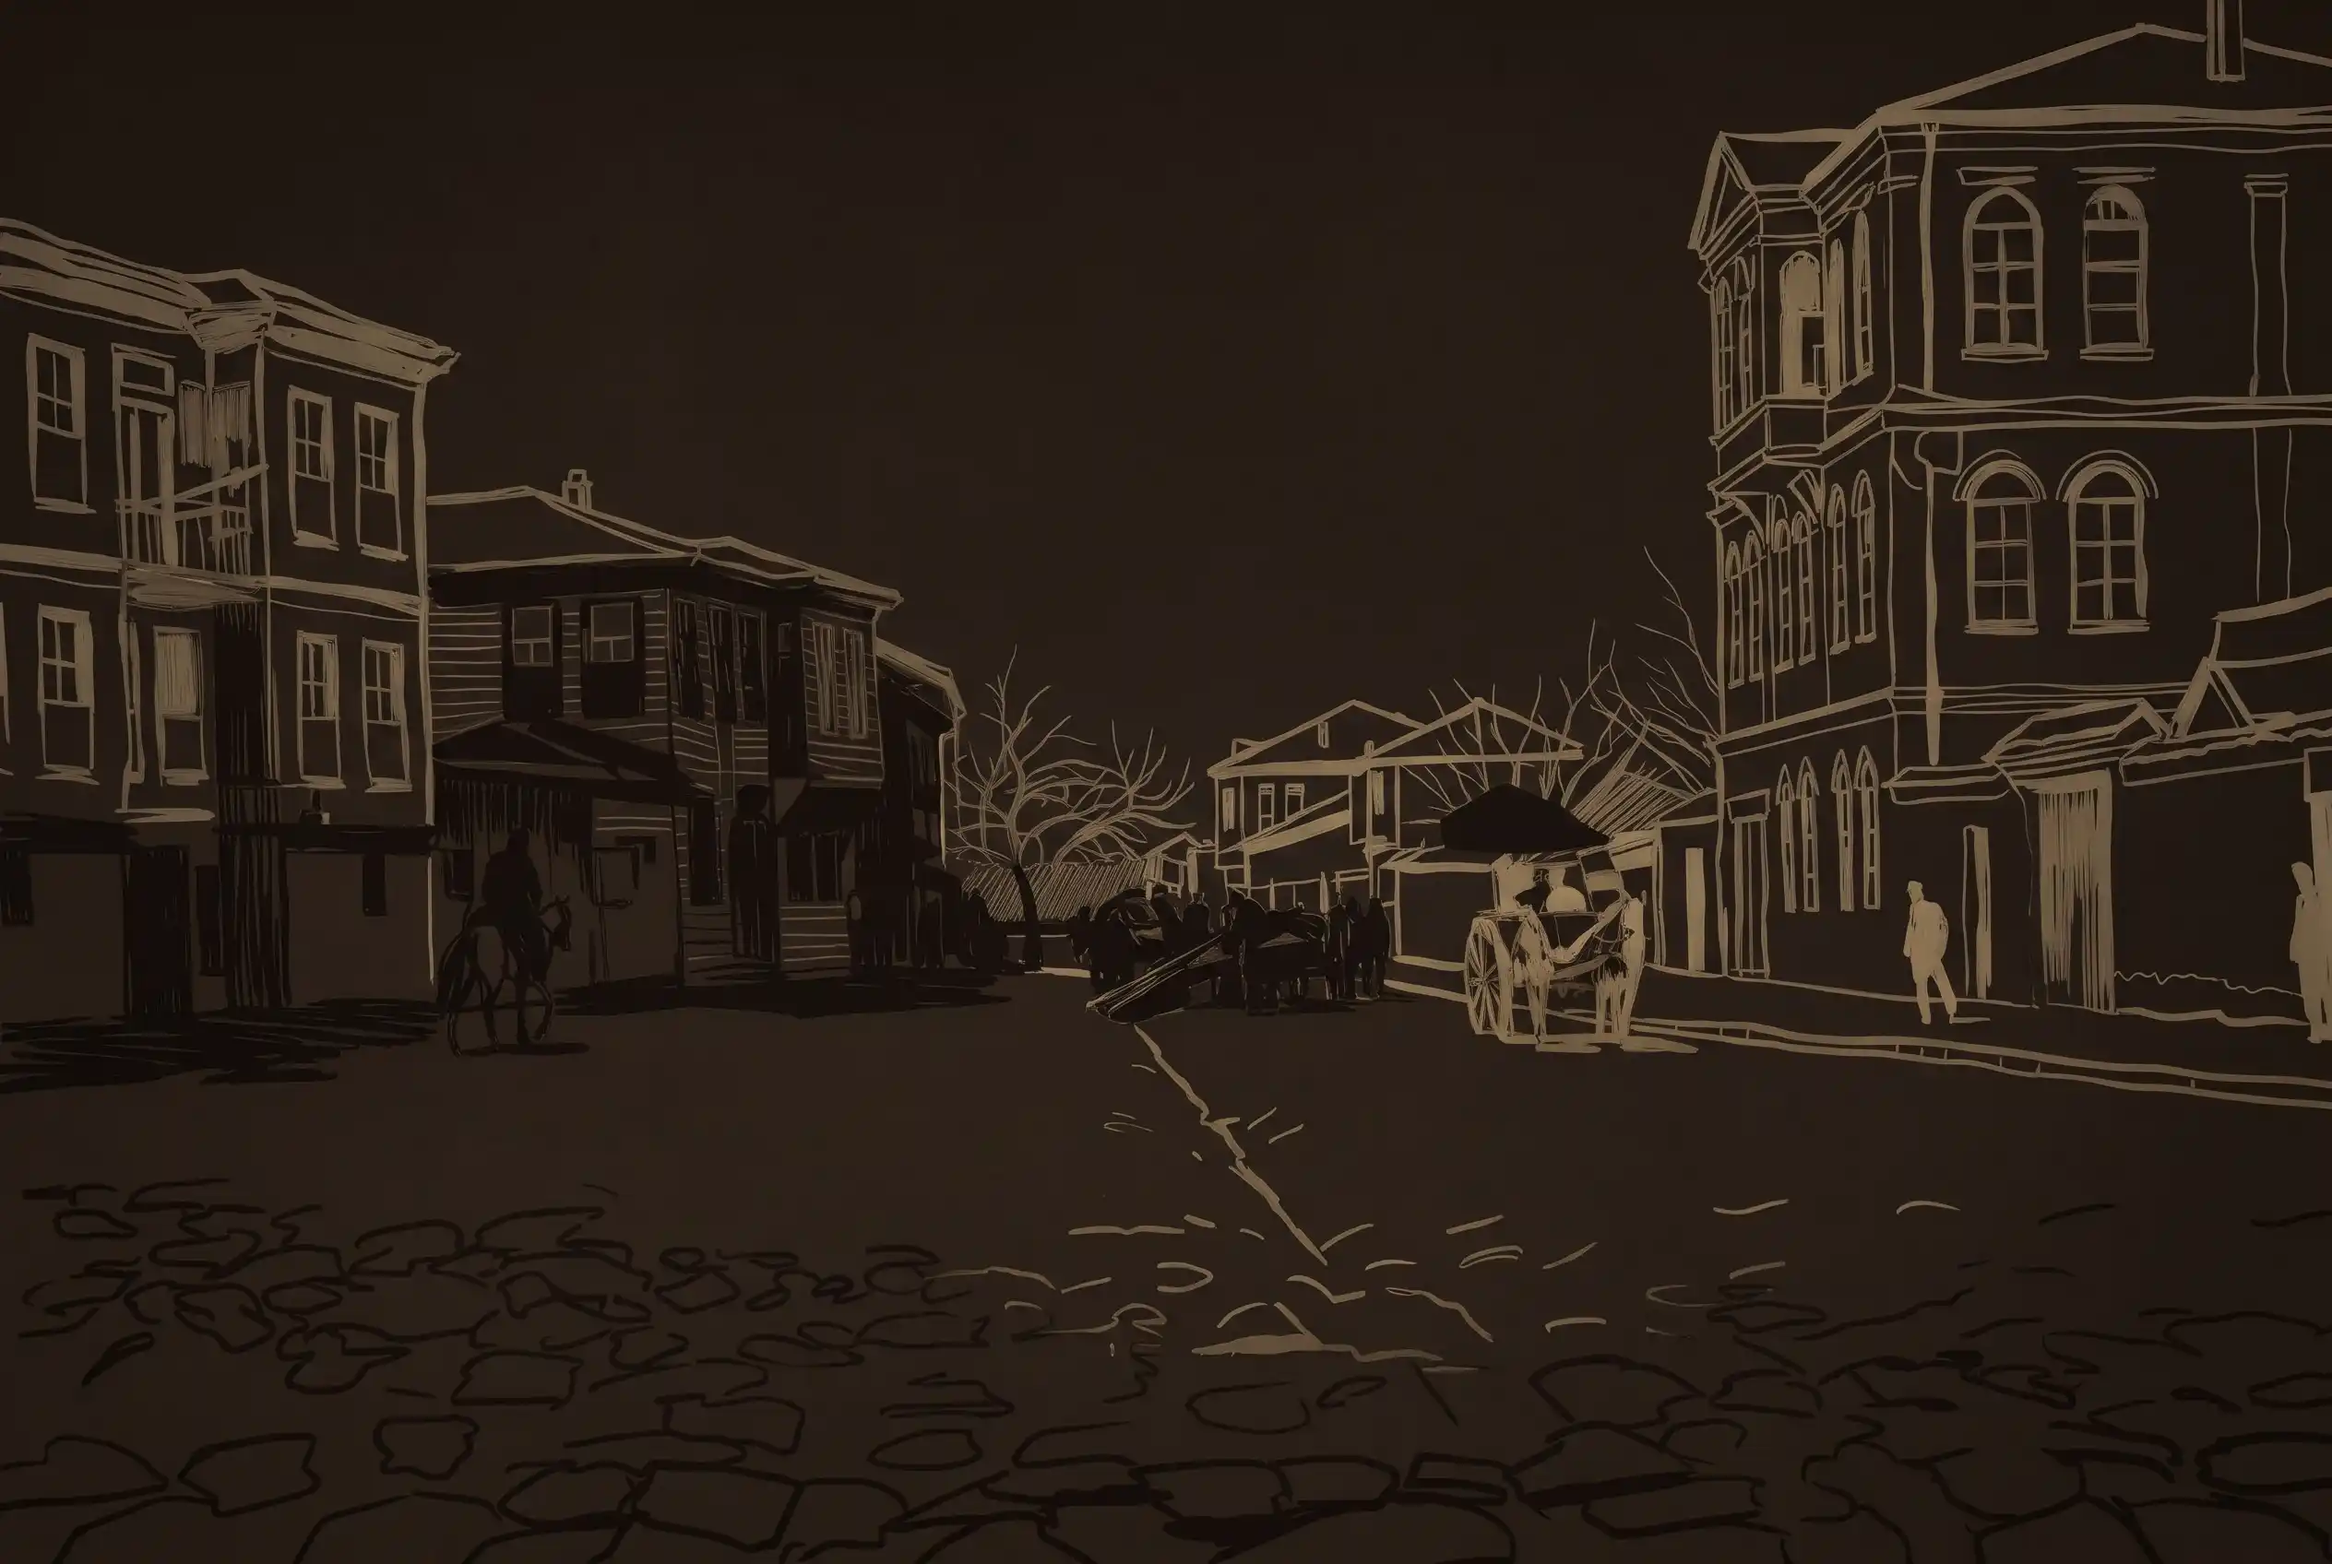
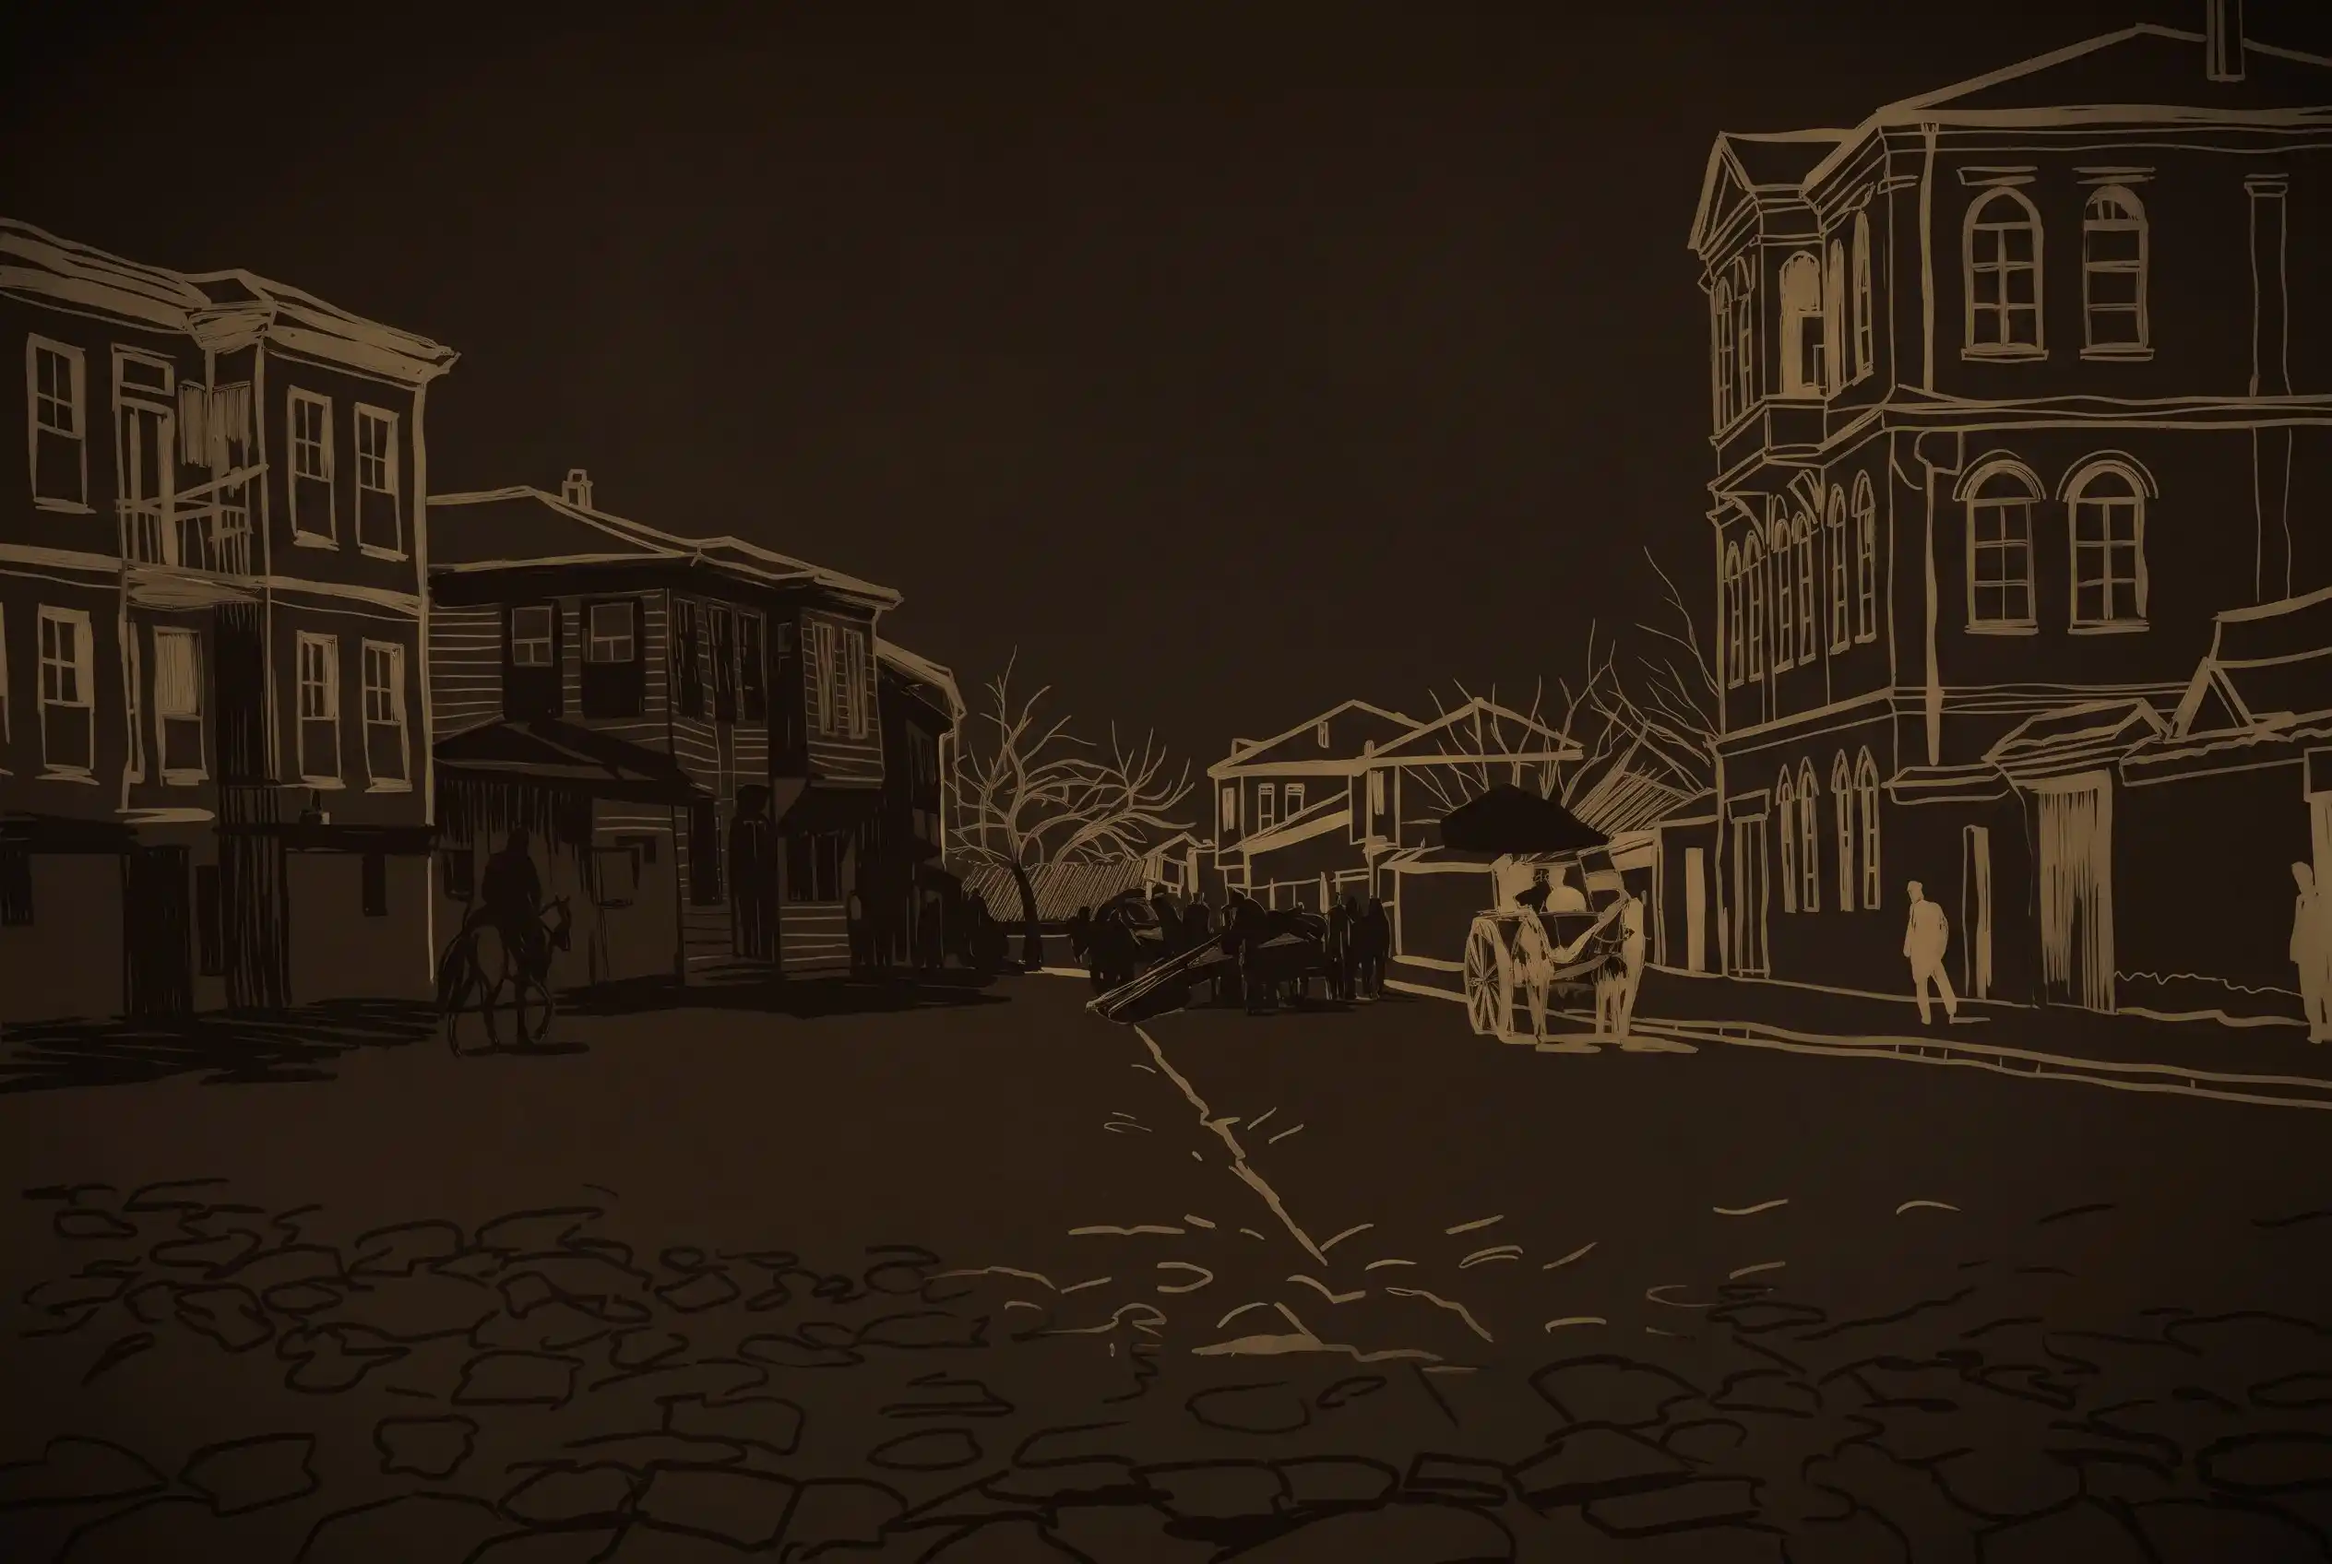
v1.9.1: DENEME - kelime kutusu koyu sepya zemin

Changed region(s): [[0.9062, 0.0, 1.0, 0.0938]]

diff --git a/css/style.css b/css/style.css
@@ -121,6 +121,17 @@
 :root[data-theme="dark"][data-palette="sepya"] .slot::after {
   filter: drop-shadow(0 0 2px var(--halo));
 }
+/* Kelime kutusu arka plandaki çizimle karışmasın: sadece kutunun içi koyu sepya zemin */
+:root[data-theme="dark"][data-palette="sepya"] .guess-input {
+  background: rgba(30, 22, 14, 0.9);
+  color: var(--ink);
+}
+:root[data-theme="dark"][data-palette="sepya"] .guess-input::placeholder {
+  color: #9c8866;
+}
+:root[data-theme="dark"][data-palette="sepya"] .guess-input:focus {
+  background: rgba(36, 27, 17, 0.95);
+}
 /* === DENEME SONU ========================================================= */
 
 /* === 2. TEMEL ============================================================ */
